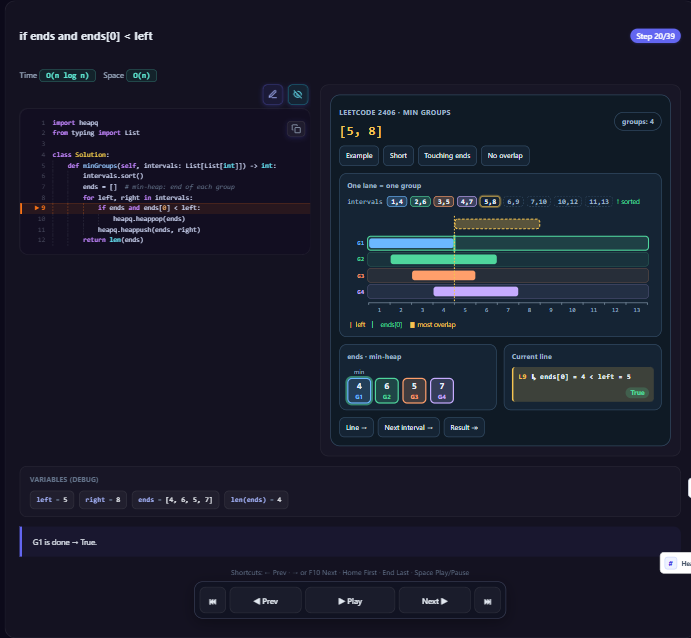
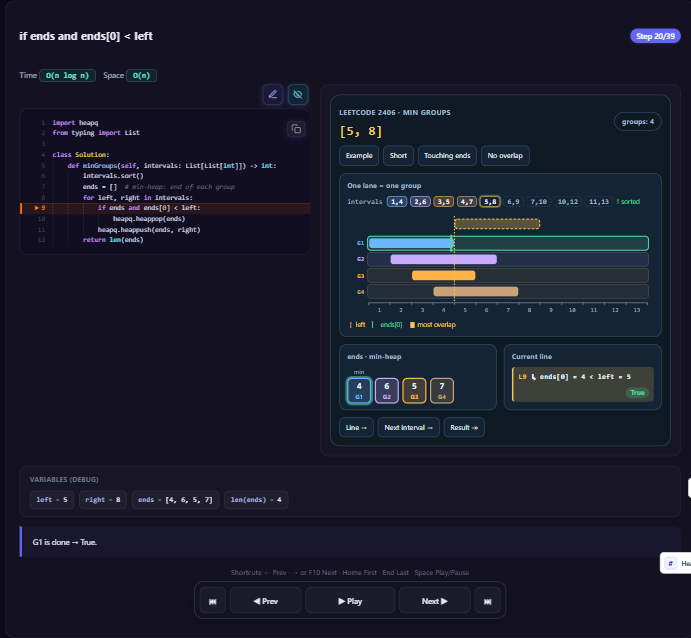
fix(2406): ends[0] mark clear of sweep line, group colors distinct from free/busy, localized svg label
- ends[0] mark drawn 6px inside the group's last cell, so it no longer hides under the
  sweep line when ends[0] + 1 == left.
- Group palette g0..g9 has no green/red hues (RGB distance > 60 from the status colors in
  both themes); busy lane outline is dashed, free is solid.
- SVG aria-label uses copy.groups ("N nhóm" / "N groups").
- Cache-bust tokens for the 2406 css/js bumped to min-groups-2406-v2 in public/index.html.
- Tests: picture overlap test now covers sweep and ends[0] line marks (vs each other and
  text, incl. ends[0]+1 == left cases); new tests for palette vs status colors and the
  localized aria-label. CDP probe checks line marks too.

Verification:
- node --test tests/min-groups-2406.test.js: 9/9 pass.
- node --test "tests/*.test.js": 3115 tests, 3066 pass, 49 fail; failing set identical to
  the baseline 49, none in 2406.
- CDP probe (dark + light, 6 inputs): 0 line mismatches, 0 overlaps incl. line marks,
  0 clipped, no code-panel vertical scroll, notes <= 24 chars, 0 console errors.
- Spot-check 416, 426, 432, 146, 410, 514, 707, 2402, 1851: load and step through with
  0 errors; 2406 styles not applied.

diff --git a/leetcode-visualizer/tests/min-groups-2406.test.js b/leetcode-visualizer/tests/min-groups-2406.test.js
@@ -163,16 +163,38 @@ function svgBoxes(html) {
     const x = anchor === 'end' ? +m[2] - w : +m[2] - w / 2;
     boxes.push({ name: `${m[1]}:${m[4]}`, x, y: +m[3] - h + 2, w, h });
   }
-  return { width, height, boxes };
+  // Vertical line marks, widened by their stroke (sweep 2px, ends[0] mark 4px with round caps).
+  const marks = [];
+  for (const m of html.matchAll(/<line class="(mg2406-sweep|mg2406-endmark)[^"]*"[^>]* x1="([\d.]+)" y1="([\d.]+)" x2="[\d.]+" y2="([\d.]+)"/g)) {
+    const half = m[1] === 'mg2406-sweep' ? 1 : 2;
+    const cap = m[1] === 'mg2406-sweep' ? 0 : 2;
+    marks.push({ name: `${m[1]}@${m[2]}`, x: +m[2] - half, y: +m[3] - cap, w: half * 2, h: +m[4] - +m[3] + cap * 2 });
+  }
+  return { width, height, boxes, marks };
 }
 
-test('2406 picture: bars and labels never overlap and stay inside the viewBox', () => {
+test('2406 picture: bars, labels and line marks never overlap and stay inside the viewBox', () => {
   const ui = renderer('en');
   const inputs = [...ui.cases.map((preset) => preset[0]), ...randomInputs(60), '[[1,40]]', JSON.stringify(Array.from({ length: 10 }, () => [999961, 1000000]))];
+  let adjacentChecks = 0;
   for (const input of inputs) {
     const { steps } = problem.builder(input);
     steps.forEach((step, index) => {
-      const { width, height, boxes } = svgBoxes(ui.render(step, steps, index));
+      const { width, height, boxes, marks } = svgBoxes(ui.render(step, steps, index));
+      const view = step.minGroups2406View;
+      if (view.event === 'check' && view.heap.length) {
+        assert.equal(marks.filter((m) => m.name.startsWith('mg2406-endmark')).length, 1, `${input} #${index}: one ends[0] mark`);
+        const current = view.intervals.find((item) => item.id === view.current);
+        if (view.heap[0].end + 1 === current.left) adjacentChecks++;
+      }
+      // Line marks must not touch each other or any text; boxes are inflated by 1px so they also stay visibly apart.
+      const texts = boxes.filter((b) => !b.name.startsWith('bar@'));
+      const near = (a, b) => a.x < b.x + b.w + 1 && b.x < a.x + a.w + 1 && a.y < b.y + b.h + 1 && b.y < a.y + a.h + 1;
+      for (let i = 0; i < marks.length; i++) {
+        for (const t of texts) assert.ok(!near(marks[i], t), `${input} #${index}: ${marks[i].name} overlaps ${t.name}`);
+        for (let j = i + 1; j < marks.length; j++) assert.ok(!near(marks[i], marks[j]), `${input} #${index}: ${marks[i].name} overlaps ${marks[j].name}`);
+        assert.ok(marks[i].x >= 0 && marks[i].y >= 0 && marks[i].x + marks[i].w <= width && marks[i].y + marks[i].h <= height, `${input} #${index}: ${marks[i].name} clipped`);
+      }
       for (const b of boxes) assert.ok(b.x >= 0 && b.y >= 0 && b.x + b.w <= width && b.y + b.h <= height, `${input} #${index}: ${b.name} clipped`);
       for (let i = 0; i < boxes.length; i++) {
         for (let j = i + 1; j < boxes.length; j++) {
@@ -184,6 +206,31 @@ test('2406 picture: bars and labels never overlap and stay inside the viewBox', 
       }
     });
   }
+  assert.ok(adjacentChecks > 0, 'covers checks where ends[0] + 1 == left (mark next to the sweep line)');
+});
+
+test('2406 group colors differ from the free/busy status colors in both themes; busy also has a dashed outline', () => {
+  const hex = (block, name) => (block.match(new RegExp(`--mg2406-${name}: (#[0-9a-f]{6});`, 'i')) || [])[1];
+  const rgb = (value) => [1, 3, 5].map((i) => parseInt(value.slice(i, i + 2), 16));
+  const distance = (a, b) => Math.hypot(...rgb(a).map((v, i) => v - rgb(b)[i]));
+  const dark = CSS.match(/^\.mg2406-viz \{[^}]*\}/m)[0];
+  const light = CSS.match(/\[data-theme="light"\] \.mg2406-viz \{[^}]*\}/)[0];
+  for (const block of [dark, light]) {
+    for (let g = 0; g < 10; g++) {
+      for (const status of ['green', 'red']) {
+        assert.ok(distance(hex(block, `g${g}`), hex(block, status)) > 60, `g${g} vs ${status}`);
+      }
+    }
+  }
+  assert.match(CSS, /\.mg2406-lane\.is-busy \{[^}]*stroke-dasharray/s);
+  assert.doesNotMatch(CSS.match(/\.mg2406-lane\.is-free \{[^}]*\}/s)[0], /stroke-dasharray/);
+});
+
+test('2406 picture aria-label follows the page language', () => {
+  const step = problem.builder(problem.defaultInput).steps.at(-1);
+  const groups = step.minGroups2406View.groups;
+  assert.ok(renderer('vi').render(step, [step], 0).includes(`role="img" aria-label="${groups} nhóm"`));
+  assert.ok(renderer('en').render(step, [step], 0).includes(`role="img" aria-label="${groups} groups"`));
 });
 
 test('2406 shows locals once: in the shared Variables panel, not in the line strip', () => {
@@ -206,8 +253,8 @@ test('2406 is listed under Heap and its assets are wired with light/dark tokens 
   assert.equal(problem.category.key, 'heap');
   assert.equal(problem.debugMode, 'line-by-line');
   const index = readFrontendIndex();
-  assert.match(index, /min-groups-2406\.css\?v=min-groups-2406-v1" data-problem-ids="2406"/);
-  assert.match(index, /renderer-min-groups-2406\.js\?v=min-groups-2406-v1" data-problem-ids="2406"/);
+  assert.match(index, /min-groups-2406\.css\?v=min-groups-2406-v2" data-problem-ids="2406"/);
+  assert.match(index, /renderer-min-groups-2406\.js\?v=min-groups-2406-v2" data-problem-ids="2406"/);
   assert.match(readFrontendJavaScript(), /step\.minGroups2406View\), surface: "treeView", render: \(step\) => \{\s*renderMinGroups2406View\(step\)/);
   assert.match(CSS, /\.mg2406-viz \{[^}]*--mg2406-bg:/s);
   assert.match(CSS, /\[data-theme="light"\] \.mg2406-viz \{[^}]*--mg2406-bg:/s);

diff --git a/leetcode-visualizer/public/renderer-min-groups-2406.js b/leetcode-visualizer/public/renderer-min-groups-2406.js
@@ -111,8 +111,9 @@ const MG2406_PAD_R = 12;
 const MG2406_TOP = 8;
 const MG2406_ROW = 30;
 const MG2406_BAR_H = 18;
+const MG2406_END_INSET = 6;
 
-function mg2406Picture(state) {
+function mg2406Picture(state, copy) {
   if (!state.intervals.length) return "";
   const lo = Math.min(...state.intervals.map((item) => item.left));
   const hi = Math.max(...state.intervals.map((item) => item.right));
@@ -156,9 +157,10 @@ function mg2406Picture(state) {
   if (current && current.group === null) {
     parts.push(`<rect class="mg2406-bar is-current" data-current="${current.id}" x="${x(current.left) + 1}" y="${barY(MG2406_TOP)}" width="${(current.right - current.left + 1) * unit - 2}" height="${MG2406_BAR_H}" rx="5"/>`);
   }
-  // ends[0] at the moment it is compared: a mark on the right edge of that group's last cell.
+  // ends[0] at the moment it is compared: a mark inside that group's last cell, MG2406_END_INSET px left of its
+  // right edge, so it never sits under the sweep line when ends[0] + 1 == left.
   if (checking) {
-    const ex = x(top.end + 1);
+    const ex = x(top.end + 1) - MG2406_END_INSET;
     parts.push(`<line class="mg2406-endmark ${state.condition ? "is-free" : "is-busy"}" data-endmark="${top.group}" x1="${ex}" y1="${laneY(top.group) + 1}" x2="${ex}" y2="${laneY(top.group) + MG2406_ROW - 1}"/>`);
   }
   // Sweep line at left of the current interval.
@@ -174,7 +176,7 @@ function mg2406Picture(state) {
     if ((v - lo) % every === 0) parts.push(`<text class="mg2406-tick-label" x="${x(v) + unit / 2}" y="${axisY + 17}">${v}</text>`);
   }
   parts.push(`<line class="mg2406-tick" x1="${x(hi + 1)}" y1="${axisY}" x2="${x(hi + 1)}" y2="${axisY + 4}"/>`);
-  const label = `${lanes} groups`;
+  const label = `${lanes} ${copy.groups}`;
   return `<svg class="mg2406-svg" width="${width}" height="${height}" viewBox="0 0 ${width} ${height}" role="img" aria-label="${mg2406Escape(label)}">${parts.join("")}</svg>`;
 }
 
@@ -295,7 +297,7 @@ function renderMinGroups2406View(step) {
   host.innerHTML = `<article class="mg2406-viz${state.final ? " is-final" : ""}" data-problem-id="2406" data-source-line="${state.line}" role="region" aria-label="LeetCode 2406 · line ${state.line}">`
     + `<header class="mg2406-head"><div><small>LEETCODE 2406 · MIN GROUPS</small><h2><code>${mg2406Escape(heading)}</code></h2></div><span class="mg2406-status">${mg2406Escape(status)}</span></header>`
     + `<nav class="mg2406-presets" aria-label="${mg2406Escape(copy.examples)}">${presets}</nav>`
-    + `<section class="mg2406-card mg2406-picture-card" aria-label="${mg2406Escape(copy.picture)}"><header><b>${mg2406Escape(copy.picture)}</b></header>${mg2406Chips(state, copy)}${mg2406Picture(state)}${legend}</section>`
+    + `<section class="mg2406-card mg2406-picture-card" aria-label="${mg2406Escape(copy.picture)}"><header><b>${mg2406Escape(copy.picture)}</b></header>${mg2406Chips(state, copy)}${mg2406Picture(state, copy)}${legend}</section>`
     + `<div class="mg2406-row"><section class="mg2406-card mg2406-heap-card" aria-label="${mg2406Escape(copy.heap)}">${mg2406Heap(state, copy)}</section>`
     + `<section class="mg2406-card mg2406-code-card" aria-label="${mg2406Escape(copy.code)}">${mg2406Code(state, copy)}</section></div>`
     + `<footer class="mg2406-foot">${jumps}</footer></article>`;

diff --git a/leetcode-visualizer/.agents/tasks/min-groups-2406/cdp-check.js b/leetcode-visualizer/.agents/tasks/min-groups-2406/cdp-check.js
@@ -21,6 +21,13 @@ const GEOMETRY_PROBE = `(() => {
   const hit = (a, b) => a.x < b.x + b.w - 0.5 && b.x < a.x + a.w - 0.5 && a.y < b.y + b.h - 0.5 && b.y < a.y + a.h - 0.5;
   const items = [...svg.querySelectorAll('rect.mg2406-bar, text')].map((el) => box(el, el.getAttribute('class') + ':' + (el.textContent || el.dataset.interval || el.dataset.current)));
   for (let i = 0; i < items.length; i++) for (let j = i + 1; j < items.length; j++) if (hit(items[i], items[j])) out.overlaps.push([items[i].name, items[j].name]);
+  // Line marks (sweep, ends[0]) widened by their computed stroke: must stay apart from each other and from text.
+  const marks = [...svg.querySelectorAll('line.mg2406-sweep, line.mg2406-endmark')].map((el) => { const b = el.getBBox(); const sw = parseFloat(getComputedStyle(el).strokeWidth) || 1;
+    const cap = getComputedStyle(el).strokeLinecap === 'round' ? sw / 2 : 0; return { name: el.getAttribute('class'), x: b.x - sw / 2 - 1, y: b.y - cap, w: b.width + sw + 2, h: b.height + cap * 2 }; });
+  const texts = [...svg.querySelectorAll('text')].map((el) => box(el, 'text:' + el.textContent));
+  for (let i = 0; i < marks.length; i++) { for (const t of texts) if (hit(marks[i], t)) out.overlaps.push([marks[i].name, t.name]);
+    for (let j = i + 1; j < marks.length; j++) if (hit(marks[i], marks[j])) out.overlaps.push([marks[i].name, marks[j].name]); }
+  out.endmarks = marks.filter((m) => m.name.includes('endmark')).length;
   [...svg.querySelectorAll('rect, line, text')].forEach((el) => { const b = el.getBBox();
     if (b.x < vb.x - 0.5 || b.y < vb.y - 0.5 || b.x + b.width > vb.x + vb.width + 0.5 || b.y + b.height > vb.y + vb.height + 0.5) out.clipped.push(el.outerHTML.slice(0, 70)); });
   const rect = (el, name) => { const r = el.getBoundingClientRect(); return { name, x: r.left, y: r.top, w: r.width, h: r.height }; };

diff --git a/leetcode-visualizer/public/min-groups-2406.css b/leetcode-visualizer/public/min-groups-2406.css
@@ -11,16 +11,17 @@
   --mg2406-red: #ff8f8f;
   --mg2406-violet: #c6abff;
   --mg2406-line: #2a4560;
+  /* Group colors avoid the green/red hues used for the free/busy status. */
   --mg2406-g0: #6cb8ff;
-  --mg2406-g1: #4fd69c;
-  --mg2406-g2: #ff9f6b;
-  --mg2406-g3: #c6abff;
-  --mg2406-g4: #ff7eb6;
-  --mg2406-g5: #5ee0e0;
-  --mg2406-g6: #d8d86a;
-  --mg2406-g7: #9fb0ff;
-  --mg2406-g8: #ffb3b3;
-  --mg2406-g9: #a6e07a;
+  --mg2406-g1: #c6abff;
+  --mg2406-g2: #ffb347;
+  --mg2406-g3: #c9a27a;
+  --mg2406-g4: #e88ad8;
+  --mg2406-g5: #d8d86a;
+  --mg2406-g6: #9fb0ff;
+  --mg2406-g7: #8fb3c9;
+  --mg2406-g8: #5ec8e0;
+  --mg2406-g9: #b8b8c8;
   container: mg2406 / inline-size;
   display: grid;
   gap: 12px;
@@ -48,15 +49,15 @@
   --mg2406-violet: #6c3fb8;
   --mg2406-line: #fff3cf;
   --mg2406-g0: #1663b8;
-  --mg2406-g1: #08784f;
+  --mg2406-g1: #6c3fb8;
   --mg2406-g2: #c2560c;
-  --mg2406-g3: #6c3fb8;
-  --mg2406-g4: #b8336f;
-  --mg2406-g5: #0f7f86;
-  --mg2406-g6: #7a7400;
-  --mg2406-g7: #3d4fc4;
-  --mg2406-g8: #a83a3a;
-  --mg2406-g9: #4a7d14;
+  --mg2406-g3: #8a5a2b;
+  --mg2406-g4: #a8389a;
+  --mg2406-g5: #7a7400;
+  --mg2406-g6: #3d4fc4;
+  --mg2406-g7: #4f6f86;
+  --mg2406-g8: #1b7a9c;
+  --mg2406-g9: #5f6170;
 }
 
 .mg2406-viz .g0 { --mg2406-c: var(--mg2406-g0); }
@@ -253,6 +254,7 @@
   fill: color-mix(in srgb, var(--mg2406-red) 14%, transparent);
   stroke: var(--mg2406-red);
   stroke-width: 2;
+  stroke-dasharray: 6 4; /* busy is dashed, free is solid: a cue besides color */
 }
 
 .mg2406-lane.is-pushed {

diff --git a/leetcode-visualizer/public/index.html b/leetcode-visualizer/public/index.html
@@ -215,7 +215,7 @@
     <link rel="stylesheet" href="split-array-410.css?v=split-array-410-v5" />
     <link rel="stylesheet" href="all-one-432.css?v=all-one-432-v5" />
     <link rel="stylesheet" href="bst-dll-426.css?v=bst-dll-426-v2" />
-    <link rel="stylesheet" href="min-groups-2406.css?v=min-groups-2406-v1" data-problem-ids="2406" />
+    <link rel="stylesheet" href="min-groups-2406.css?v=min-groups-2406-v2" data-problem-ids="2406" />
     <link rel="stylesheet" href="freedom-trail-514.css?v=freedom-trail-514-v7" />
     <link rel="stylesheet" href="cracking-safe-753.css?v=safe753-pictures-v2" />
     <link rel="stylesheet" href="special-binary-string-761.css?v=special-binary-string-761-v1" />
@@ -740,7 +740,7 @@
     <script src="renderer-split-array-410.js?v=split-array-410-v5"></script>
     <script src="renderer-all-one-432.js?v=all-one-432-v5"></script>
     <script src="renderer-bst-dll-426.js?v=bst-dll-426-v2"></script>
-    <script src="renderer-min-groups-2406.js?v=min-groups-2406-v1" data-problem-ids="2406"></script>
+    <script src="renderer-min-groups-2406.js?v=min-groups-2406-v2" data-problem-ids="2406"></script>
     <script src="renderer-freedom-trail-514.js?v=freedom-trail-514-v7"></script>
     <script src="renderer-cracking-safe-753.js?v=safe753-pictures-v2"></script>
     <script src="renderer-special-binary-string-761.js?v=special-binary-string-761-v1"></script>

diff --git a/leetcode-visualizer/.agents/tasks/min-groups-2406/review.md b/leetcode-visualizer/.agents/tasks/min-groups-2406/review.md
@@ -1,0 +1,62 @@
+# New LeetCode 2406 page: group lanes on a number line plus a min-heap of group ends
+
+Commit e0397a9 adds a new visualizer page for "Divide Intervals Into Minimum Number of Groups". It shows one approach, sort + min-heap of group end times. Each executed Python line is one step, with the line highlighted in the shared #codePanel. The picture is a number line with one colored lane per group. The interval being placed waits on a top row with a dashed sweep line at its `left`, and the lane of `ends[0]` turns green or red at the `if` check. The heap is drawn as colored slots, and the last frame marks the most-overlapped point with "×N". Shared changes are one require in `problems/index.js`, one renderer registry entry in `public/script.js`, and one link, one script tag and one cache-bust token in `public/index.html`. The builder's heap mirrors Python `heapq` comparison for comparison, so the `ends` list in the Variables panel matches what Python would print.
+
+Watch for: in a True check where `ends[0] == left - 1`, the green `ends[0]` marker is drawn at the same x as the sweep line and hidden under it (**confirmed**). This happens in 3 of the 5 True checks in the default example and in at least one True check in every preset. The overlap test only checks bars and text, so it misses this. The user asked for no overlapping elements. Separately, the "free" green is the same color as group G2's lanes (**confirmed**, visible in `shot-light.png`).
+
+**Verdict**: NEEDS_CHANGES
+
+## High-level view
+
+The approach choice holds up. 2402 and 1851 each show one heap solution, and the heap's size is the group count, so the lanes and the heap slots show the same number. A sweep line or difference array would only repeat the overlap count, and the final "×N" column already shows it. Every non-blank line runs in the default example, including both branches of line 9 (empty heap, still overlapping, free), so no preset is needed to cover gaps.
+
+The weak spot is the `if ends and ends[0] < left` frame. The picture tells the user why the check is True or False with three cues: the lane color, the `ends[0]` end marker, and the sweep line. With inclusive integer ends, the most common True case is an interval that starts right after the earliest group ends. In that case the end marker and the sweep line share an x coordinate, and the sweep line is drawn on top. The lane-fill cue also clashes with G2's own color.
+
+The page's CSS overrides for the code panel and step note only apply under `body:has(#treeView:not(.hidden) .mg2406-viz)`, so other pages keep their code-panel height cap. The test gap is the picture overlap check, which covers bars and text but not the SVG line marks.
+
+<details>
+<summary>Issues (3)</summary>
+
+1. **`ends[0]` marker hidden by the sweep line** — when `ends[0] + 1 == left`, the marker at `x(top.end + 1)` and the sweep line at `x(current.left)` coincide, and the sweep line covers the marker. Move the marker to the middle or inside of the last cell (or offset the sweep line), and extend the overlap test to cover SVG `<line>` marks.
+2. **"Free" green matches G2's color** — `--mg2406-g1` equals `--mg2406-green` in both themes, so a free G1 lane looks like a G2 lane. The red `is-busy` color is also close to G9 (`g8`). Pick group colors that differ from the status colors, or mark free/busy with something besides fill (an icon or a dashed outline).
+3. **SVG aria-label is English only** — `mg2406Picture` always sets `aria-label="N groups"`. Use `copy.groups` so Vietnamese is consistent with the rest of the page.
+
+</details>
+
+<details><summary>Details</summary>
+
+### The `ends[0]` marker and the sweep line collide
+
+The renderer draws the end marker at the right edge of the earliest group's last cell, and the sweep line at the left edge of the current interval's first cell:
+
+```js
+const ex = x(top.end + 1);                 // ends[0] marker
+...
+parts.push(`<line class="mg2406-sweep" x1="${x(current.left)}" ...`);  // drawn after the marker
+```
+
+Ends are inclusive integers, so `ends[0] < left` is True exactly when `top.end + 1 <= left`. When the earliest group ends one unit before `left`, the two lines share an x. This is the tightest and most common reuse case. A quick count with the builder found 3 of 5 True checks in the default example, 1 of 2 in Short, 1 of 1 in Touching ends and 1 of 3 in No overlap (**confirmed**). The step 20/39 screenshot (`[5,8]` against `ends[0] = 4`) shows only the dashed sweep at 5. The green marker the legend promises (`▏ ends[0]`) cannot be seen. In False checks the marker is always right of the sweep line, so the picture shows the "busy" case more clearly than the "free" case.
+
+The picture overlap test builds boxes only from `mg2406-bar` rects and `<text>` elements. The headless probe's `overlaps: 0` uses the same idea, so neither covers the marker and the sweep line. The user asked for "no overlapping or clipped elements or arrows, verified by a check", so the check should include the SVG line marks.
+
+### Status colors reuse group colors
+
+Lanes take their color from `--mg2406-g0..g9`, and the check frame recolors the `ends[0]` lane with `--mg2406-green` or `--mg2406-red`. In both themes `--mg2406-g1` is the same hex as `--mg2406-green` (`#4fd69c` dark, `#08784f` light). In the screenshot, G1 marked free and G2 at rest look alike, and the reader has to work out which lane the check is about (**confirmed**). `g8` (`#ffb3b3` / `#a83a3a`) is close to the busy red. That only matters with 9 or more groups, which the 10-interval cap allows but the presets do not reach. The True/False badge in the current-line card and the heap slot ring still show the result, so this is a legibility problem, not a wrong-picture problem.
+
+</details>
+
+<details>
+<summary>File map</summary>
+
+- `problems/min-groups-2406.js`: new problem module (parser with span ≤ 40 limit, heapq-faithful heap, step builder, metadata in the heap category).
+- `public/renderer-min-groups-2406.js`: new renderer (lanes SVG, interval chips, heap slots, current-line strip, presets, jump buttons).
+- `public/min-groups-2406.css`: new styles, dark default plus `[data-theme="light"]` tokens, code-panel height cap removed for this page only.
+- `tests/min-groups-2406.test.js`: new tests (brute-force answer, note cap, line coverage, render both languages, bar/text overlap, input limits, wiring).
+- `problems/index.js`: added `require("./min-groups-2406")` to the heap category.
+- `public/script.js`: one renderer registry entry for `minGroups2406View`.
+- `public/index.html`: stylesheet link and script tag with `data-problem-ids="2406"`, plus `&mg2406=pictures-v1` on the `script.js` query.
+- `.agents/tasks/min-groups-2406/`: CDP probe, report and four screenshots (same as earlier task folders).
+
+Full diff: `git diff 383c039..e0397a9`.
+
+</details>
